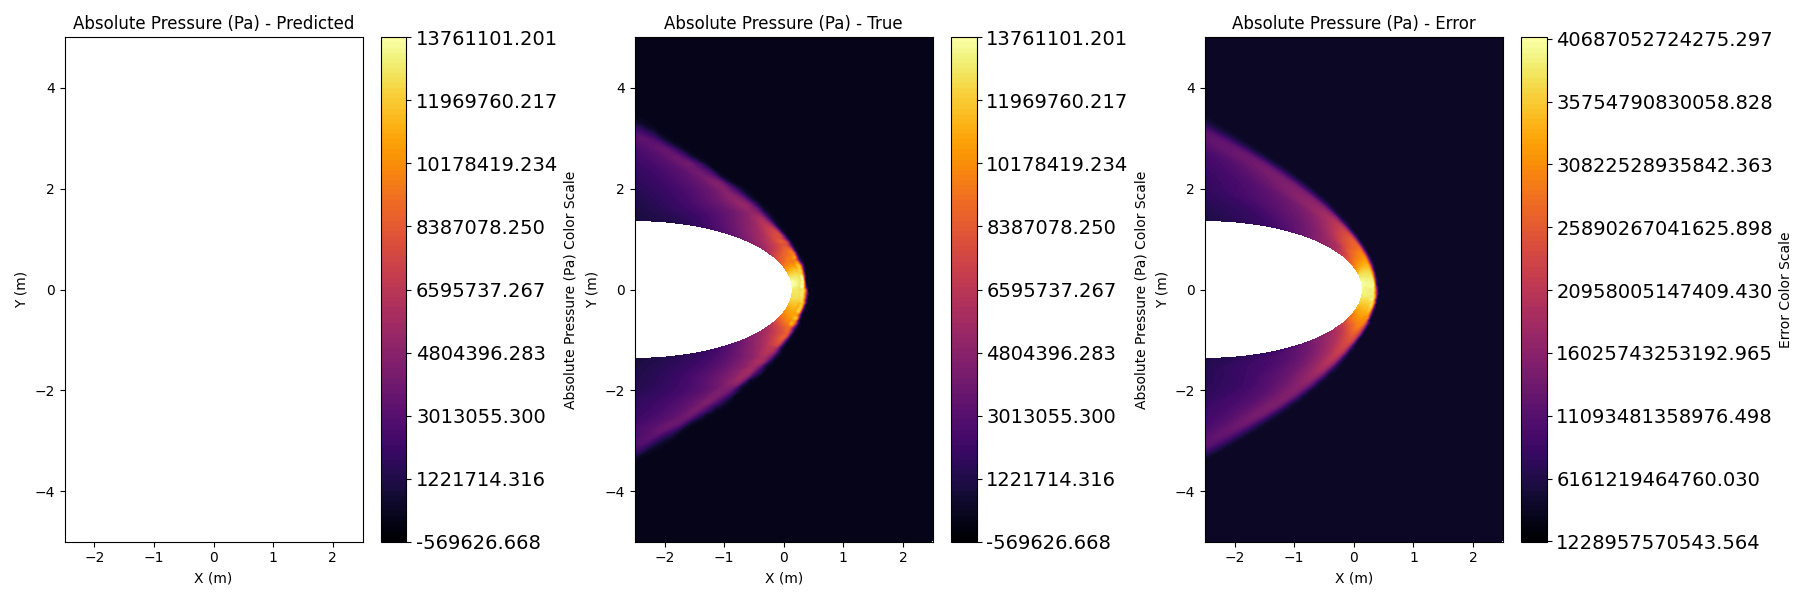
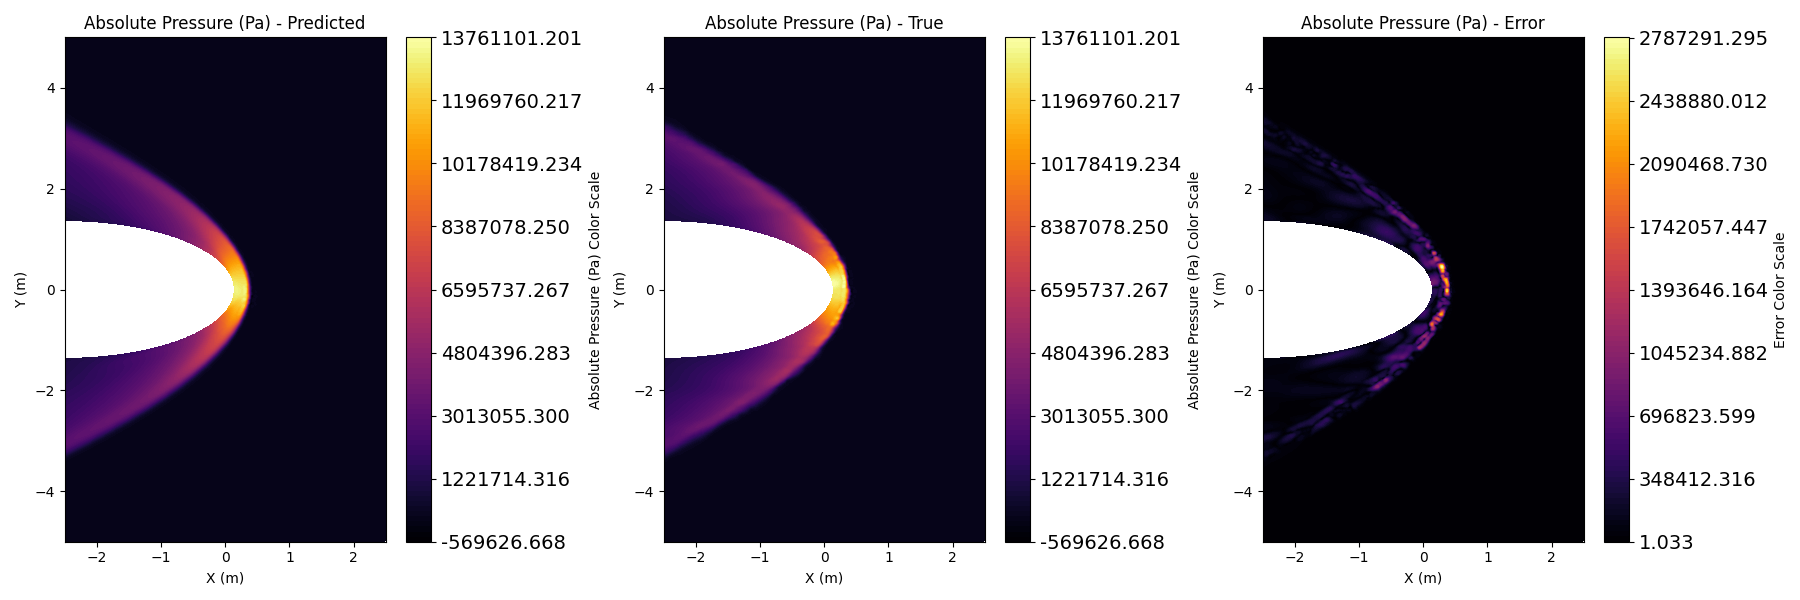
got the inference to work properly for low fidelity finally. the comparison looks fantastic

diff --git a/src/inference/methods_inference.py b/src/inference/methods_inference.py
@@ -56,13 +56,15 @@ class MethodsInference:
                 
                 pred = self.model_2(coords, params, sdf, aux=low_fi_pred) 
 
-                pred = self._denormalize(pred) + self._low_fi_denormalize(low_fi_pred)
+                pred = pred + self._low_fi_denormalize(low_fi_pred)
+
+                
 
         else:
             with torch.no_grad():
                 pred = self.model(coords, params, sdf)
-        pred = self._denormalize(pred)
-        # pred = self._add_freestream(pred)
+            pred = self._denormalize(pred)
+        
         return pred.squeeze(0).cpu().numpy()
     
     def save_to_csv(self, coords_np, output_np, out_path=None):
